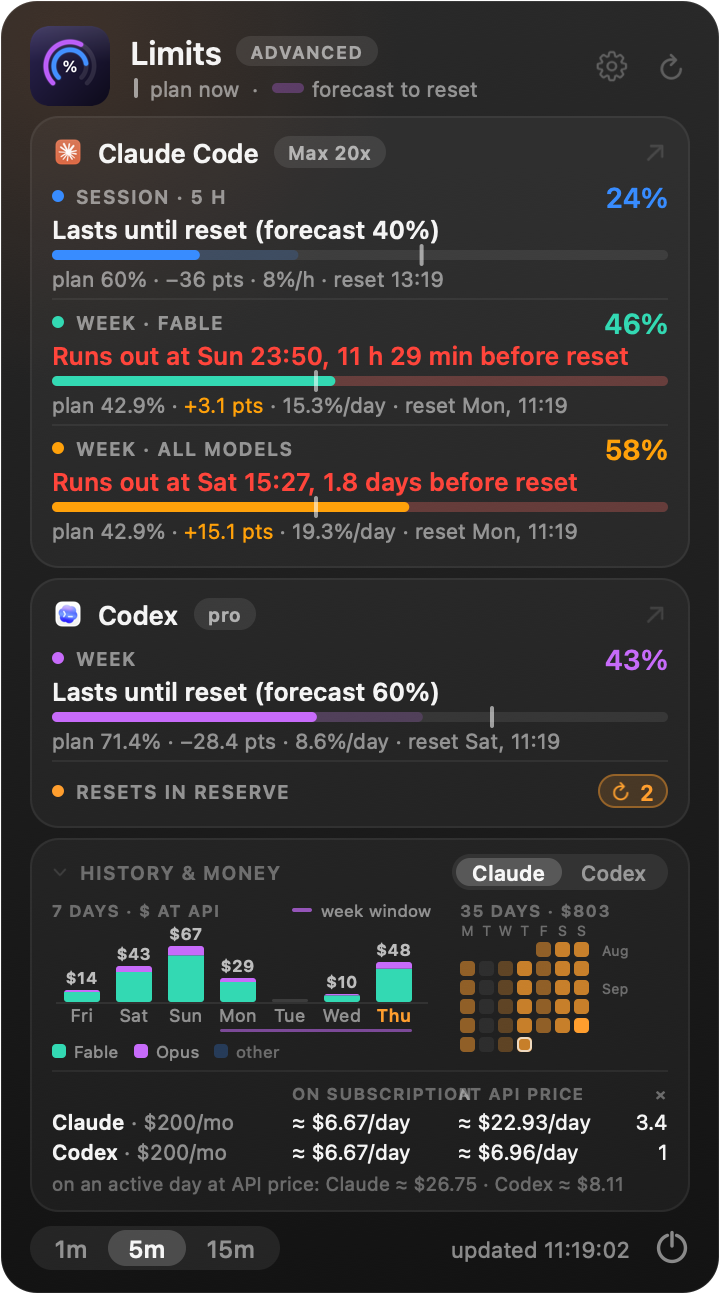
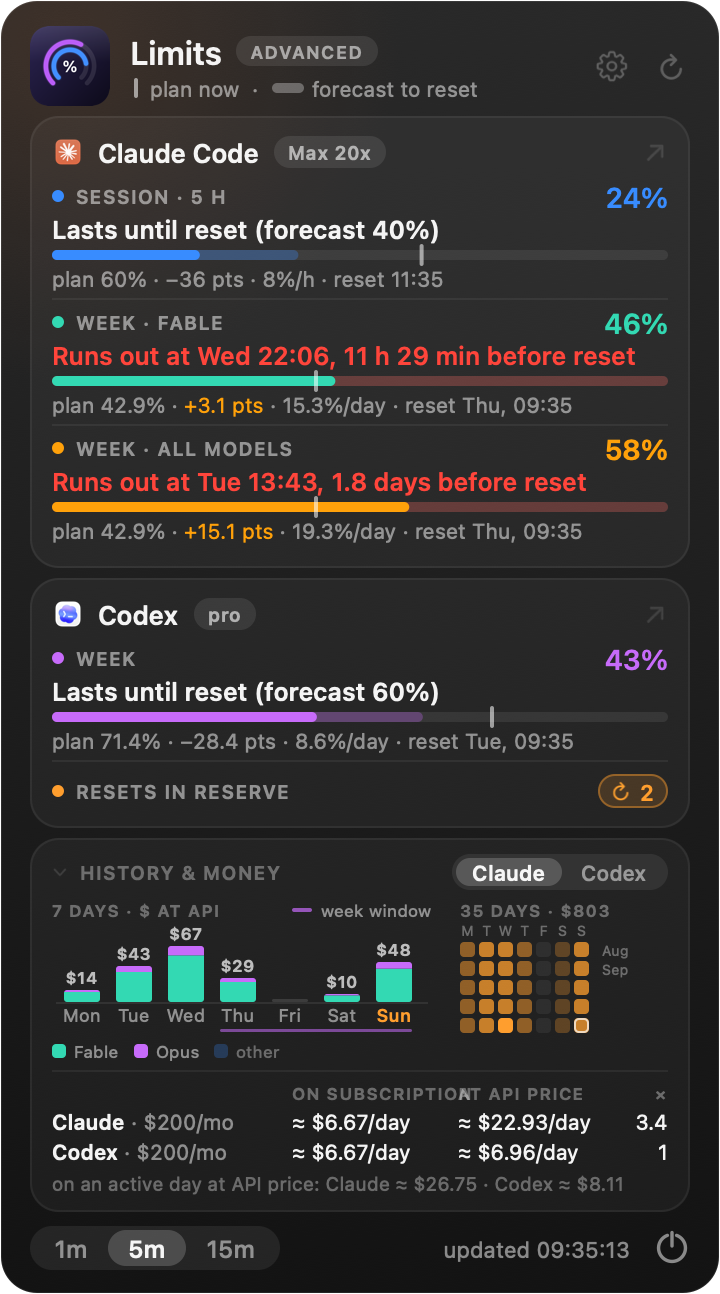
v3.0.1 — forecast tail takes the bar's own colour
The Advanced view drew the forecast tail in the window's base colour while
the fill follows the usage ramp, so a 70% weekly bar was amber with a purple
tail. The tail now uses the fill colour at 0.30 alpha, and the header legend
swatch is neutral grey.

diff --git a/Sources/LimitsMonitor.swift b/Sources/LimitsMonitor.swift
@@ -1502,7 +1502,7 @@ func panelMainHeight(_ claude: LimitData, _ codex: LimitData) -> CGFloat {
     PANEL_H + scopedRowExtra(claude, codex)
 }
 enum PanelMode { case main, settings, whatsnew, claudeFix }
-let APP_VERSION = "3.0"
+let APP_VERSION = "3.0.1"
 let APP_AUTHOR = "Alex Kovalev"
 let REPO_URL = "https://github.com/ArrivaRUS/claude-codex-limits"
 let CLAUDE_INSTALL_CMD = "curl -fsSL https://claude.ai/install.sh | bash"
@@ -2140,7 +2140,7 @@ func drawAdvanced(_ ctx: CGContext, size: CGSize, claude: LimitData, codex: Limi
         roundFill(rectTL(x + 2, ly + 1.5, 2, 10), 1, gray(1, 0.55)); x += 6 + 4
         let a = attr(tr("план сейчас", "plan now"), 10.5, .regular, textMid); textC(a, x: x, topY: ly, h: lh); x += width(a) + 4
         let d = attr("·", 10.5, .regular, textMid); textC(d, x: x + 2, topY: ly, h: lh); x += width(d) + 4 + 4
-        roundFill(rectTL(x, ly + 4, 16, 5), 2.5, ADV_WEEK.withAlphaComponent(0.30)); x += 16 + 4
+        roundFill(rectTL(x, ly + 4, 16, 5), 2.5, gray(1, 0.30)   /* neutral: the tail takes each row's own colour */); x += 16 + 4
         textC(attr(tr("прогноз к сбросу", "forecast to reset"), 10.5, .regular, textMid), x: x, topY: ly, h: lh)
     }
     let gearRect = rectTL(297, 24, 18, 18), rfRect = rectTL(327, 24, 18, 18)
@@ -2214,7 +2214,7 @@ func drawAdvanced(_ ctx: CGContext, size: CGSize, claude: LimitData, codex: Limi
                     roundFill(rectTL(ADV_IX, barTop, ADV_IW, 5), 2.5, ADV_CRIT.withAlphaComponent(0.22))
                 } else if row.kind == .full, let pr = p.projectedPct, pr > p.used {
                     let ghostW = CGFloat(min(100, pr)) / 100 * ADV_IW
-                    roundFill(rectTL(ADV_IX, barTop, ghostW, 5), 2.5, advWindowColor(l.color, 0).withAlphaComponent(0.18))
+                    roundFill(rectTL(ADV_IX, barTop, ghostW, 5), 2.5, col.withAlphaComponent(0.30))   // same hue as the fill (Alex, 2026-09-27)
                 }
             }
             if usedW >= 1 { roundFill(rectTL(ADV_IX, barTop, max(5, usedW), 5), 2.5, col) }

diff --git a/README.md b/README.md
@@ -3,7 +3,7 @@
 **English** · [Русский](README.ru.md)
 
 <p align="center">
-  <img src="docs/banner.png?v=300" alt="Claude Codex Limits — macOS menu bar usage limits" width="820">
+  <img src="docs/banner.png?v=301" alt="Claude Codex Limits — macOS menu bar usage limits" width="820">
 </p>
 
 A tiny macOS menu-bar app that shows how much of your **Claude Code** and **Codex**
@@ -14,9 +14,9 @@ window), with the product's icon to its left — and you decide which two number
 Click the tray icon for a detailed popover.
 
 <p align="center">
-  <img src="docs/menubar-dark.png?v=300" width="180" alt="Menu bar (dark)">
+  <img src="docs/menubar-dark.png?v=301" width="180" alt="Menu bar (dark)">
   &nbsp;&nbsp;
-  <img src="docs/panel-en.png?v=300" width="320" alt="Popover">
+  <img src="docs/panel-en.png?v=301" width="320" alt="Popover">
 </p>
 
 ## Features
@@ -41,19 +41,19 @@ Click the tray icon for a detailed popover.
 - **Launch at login** — a toggle right in Settings; no Dock icon, no dependencies beyond what macOS already ships.
 
 <p align="center">
-  <img src="docs/menubar-single.png?v=300" width="140" alt="Single product (menu bar)">
+  <img src="docs/menubar-single.png?v=301" width="140" alt="Single product (menu bar)">
   &nbsp;&nbsp;
-  <img src="docs/panel-single-en.png?v=300" width="300" alt="Single product (popover)">
+  <img src="docs/panel-single-en.png?v=301" width="300" alt="Single product (popover)">
 </p>
 <p align="center"><sub>With only one subscription set up, the tray and popover collapse to a single row / card.</sub></p>
 
-<p align="center"><img src="docs/advanced-en.png?v=300" width="320" alt="Advanced view"></p>
+<p align="center"><img src="docs/advanced-en.png?v=301" width="320" alt="Advanced view"></p>
 <p align="center"><sub>Advanced view: a pace line and a plain verdict per window, 7 days stacked by model, a 35‑day calendar, and what a day costs on the subscription vs at API prices.</sub></p>
 
-<p align="center"><img src="docs/settings-en.png?v=300" width="250" alt="Settings screen"></p>
+<p align="center"><img src="docs/settings-en.png?v=301" width="250" alt="Settings screen"></p>
 <p align="center"><sub>Settings (⚙): interface language · panel view · launch at login · which two numbers the menu bar shows · a sound per event (resets &amp; limit‑reached) · built‑in updates.</sub></p>
 
-<p align="center"><img src="docs/whatsnew-en.png?v=300" width="320" alt="What's new screen"></p>
+<p align="center"><img src="docs/whatsnew-en.png?v=301" width="320" alt="What's new screen"></p>
 <p align="center"><sub>“What’s new”: release notes for every version you skipped, then update straight from there.</sub></p>
 
 ## How it works
@@ -104,7 +104,7 @@ you turn it on in Settings.
 
 ### 2. From the .dmg
 
-1. Download `ClaudeCodexLimits-3.0.dmg` from the [Releases](../../releases) page.
+1. Download `ClaudeCodexLimits-3.0.1.dmg` from the [Releases](../../releases) page.
 2. Open it and drag **Claude Codex Limits** into **Applications**.
 3. Launch it. The build isn't notarized, so on **macOS Sequoia / Tahoe** the first
    launch is blocked. Do this once:
@@ -140,7 +140,7 @@ Requirements: macOS 13+, the Xcode command‑line tools (`swiftc`). No packages 
 ## Build a release
 
 ```bash
-./scripts/make-dmg.sh     # → dist/ClaudeCodexLimits-3.0.dmg
+./scripts/make-dmg.sh     # → dist/ClaudeCodexLimits-3.0.1.dmg
 ```
 
 ## Project layout
